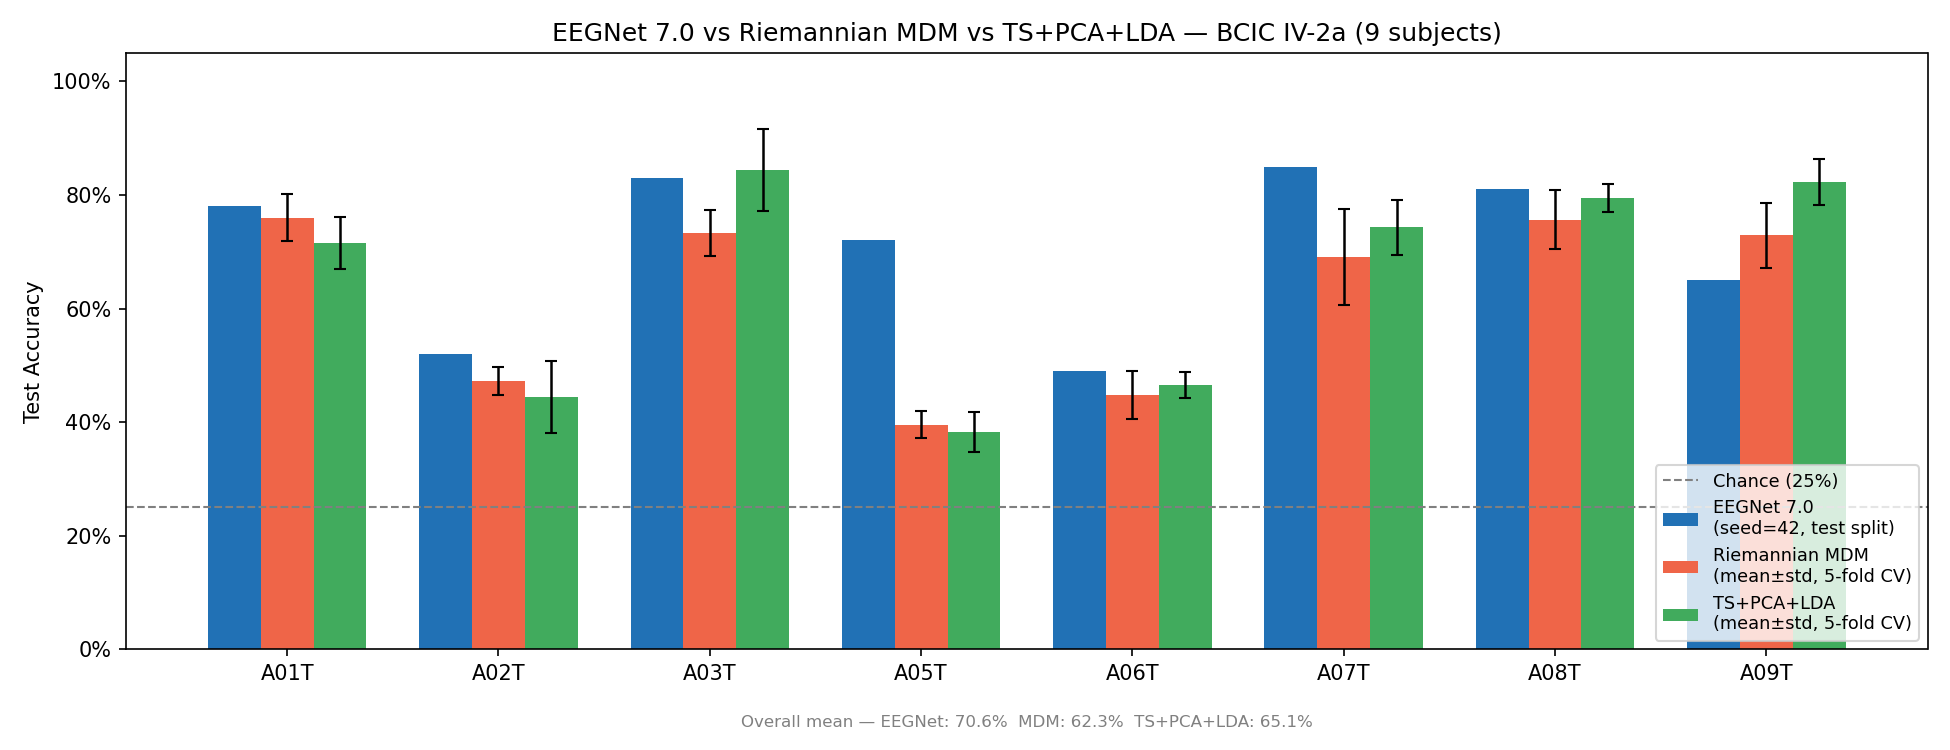
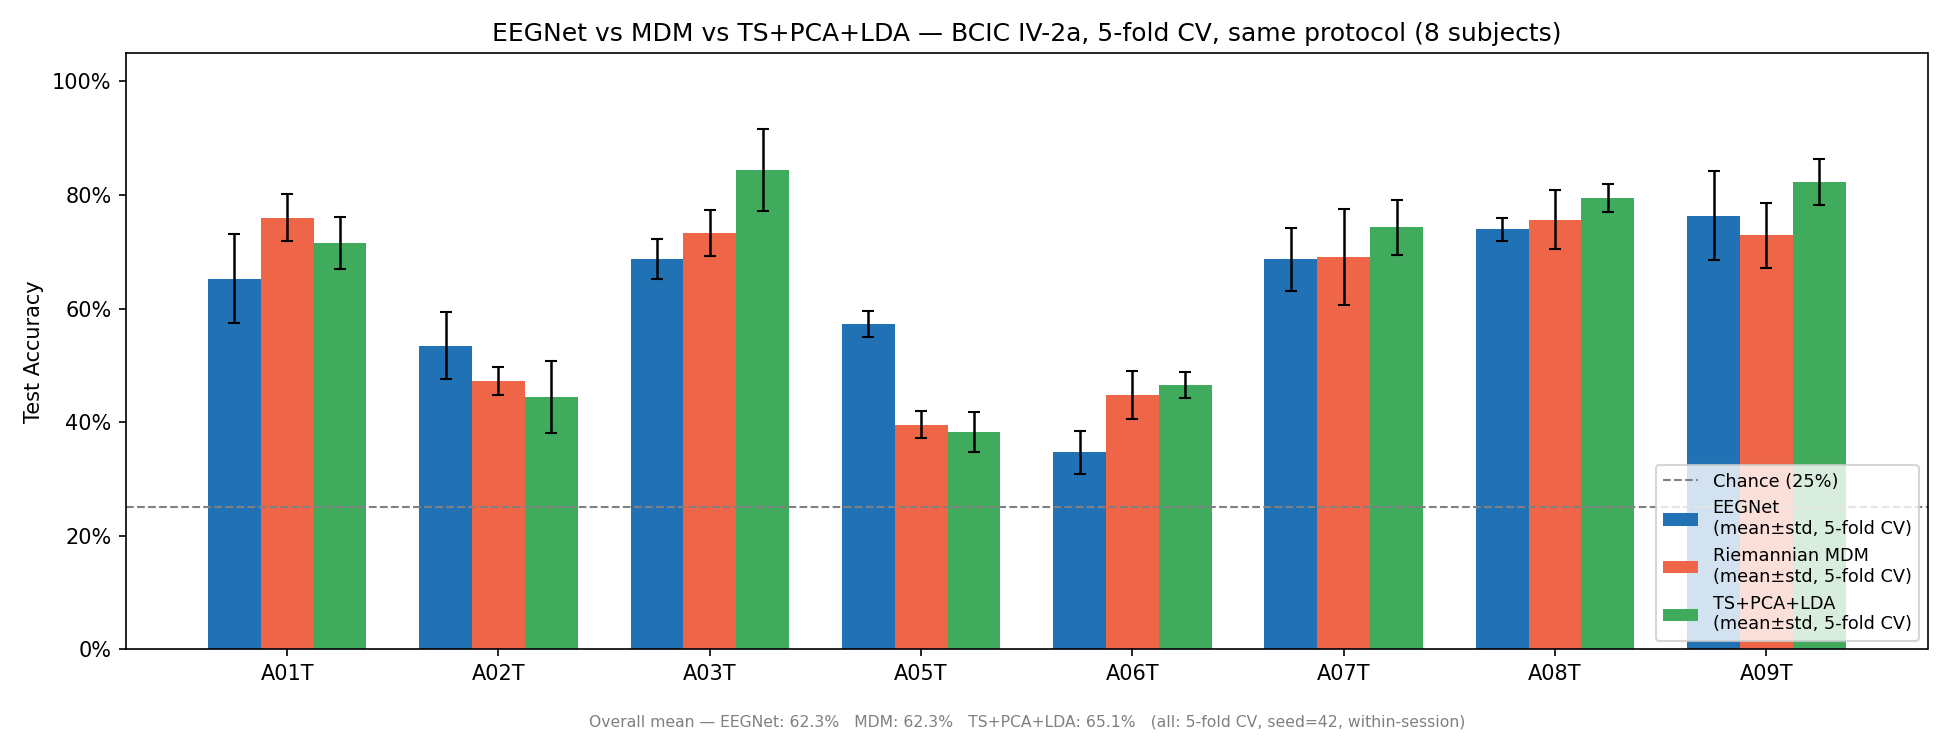
Add EEGNet 5-fold CV results; regenerate apples-to-apples comparison figure
All three methods now evaluated under identical protocol: 5-fold stratified
CV, within-session (AxxT), seed=42. EEGNet run on Palmetto GPU cluster.

Key finding: EEGNet's apparent 8-point lead over MDM disappears under the
same protocol (62.3% vs 62.3%). TS+PCA+LDA leads overall at 65.1%.
Previous EEGNet figure (70.6%) reflected a more favourable holdout split.

diff --git a/scripts/compare_methods.py b/scripts/compare_methods.py
@@ -1,10 +1,11 @@
 """
-Method comparison: EEGNet 7.0 vs Riemannian MDM vs TS+PCA+LDA — BCIC IV-2a
+Method comparison: EEGNet vs Riemannian MDM vs TS+PCA+LDA — BCIC IV-2a
 
-EEGNet values: mean ± std over 5 seeds, read from figures/per_subject_accuracy.png
-               (original 5-seed run; JSON not preserved).
-Riemannian values: loaded from results/riemannian_results.json
-                   (mean ± std over 5-fold CV).
+All three methods evaluated under the same protocol: 5-fold stratified CV,
+within-session (AxxT files), seed=42.
+
+EEGNet values:      results/eegnet_kfold_results.json  (Palmetto GPU run)
+Riemannian values:  results/riemannian_results.json
 
 Outputs:
   figures/method_comparison.png
@@ -17,18 +18,10 @@ import numpy as np
 import matplotlib.pyplot as plt
 
 
-# EEGNet 7.0 — mean ± std over 5 seeds, within-session holdout split.
-# Values read from figures/per_subject_accuracy.png (original run results).
-EEGNET = {
-    "A01T": (0.78, 0.05),
-    "A02T": (0.52, 0.04),
-    "A03T": (0.83, 0.02),
-    "A05T": (0.72, 0.03),
-    "A06T": (0.49, 0.05),
-    "A07T": (0.85, 0.04),
-    "A08T": (0.81, 0.05),
-    "A09T": (0.65, 0.07),
-}
+def load_eegnet(json_path: Path) -> dict:
+    with open(json_path, encoding="utf-8") as f:
+        data = json.load(f)
+    return {r["subject"]: (r["mean_acc"], r["std_acc"]) for r in data["results"]}
 
 
 def load_riemannian(json_path: Path) -> tuple[dict, dict]:
@@ -47,6 +40,7 @@ def plot_comparison(eegnet: dict, mdm: dict, ts: dict, out_path: Path):
     subjects = sorted(set(eegnet) & set(mdm) & set(ts))
 
     eeg_means = np.array([eegnet[s][0] for s in subjects])
+    eeg_stds  = np.array([eegnet[s][1] for s in subjects])
     mdm_means = np.array([mdm[s][0]    for s in subjects])
     mdm_stds  = np.array([mdm[s][1]    for s in subjects])
     ts_means  = np.array([ts[s][0]     for s in subjects])
@@ -57,12 +51,13 @@ def plot_comparison(eegnet: dict, mdm: dict, ts: dict, out_path: Path):
 
     fig, ax = plt.subplots(figsize=(13, 5))
 
-    ax.bar(x - w,   eeg_means, w, label="EEGNet 7.0\n(seed=42, test split)",
-           color="#2171b5")
-    ax.bar(x,       mdm_means, w, yerr=mdm_stds, capsize=3,
+    ax.bar(x - w, eeg_means, w, yerr=eeg_stds, capsize=3,
+           label="EEGNet\n(mean±std, 5-fold CV)", color="#2171b5",
+           error_kw=dict(elinewidth=1.2))
+    ax.bar(x,     mdm_means, w, yerr=mdm_stds, capsize=3,
            label="Riemannian MDM\n(mean±std, 5-fold CV)", color="#ef6548",
            error_kw=dict(elinewidth=1.2))
-    ax.bar(x + w,   ts_means,  w, yerr=ts_stds,  capsize=3,
+    ax.bar(x + w, ts_means,  w, yerr=ts_stds,  capsize=3,
            label="TS+PCA+LDA\n(mean±std, 5-fold CV)", color="#41ab5d",
            error_kw=dict(elinewidth=1.2))
 
@@ -72,7 +67,7 @@ def plot_comparison(eegnet: dict, mdm: dict, ts: dict, out_path: Path):
     ax.set_xticklabels(subjects)
     ax.set_ylabel("Test Accuracy")
     ax.set_ylim(0, 1.05)
-    ax.set_title("EEGNet 7.0 vs Riemannian MDM vs TS+PCA+LDA — BCIC IV-2a (9 subjects)")
+    ax.set_title("EEGNet vs MDM vs TS+PCA+LDA — BCIC IV-2a, 5-fold CV, same protocol (8 subjects)")
     ax.legend(loc="lower right", fontsize=8.5)
     ax.yaxis.set_major_formatter(plt.FuncFormatter(lambda v, _: f"{v*100:.0f}%"))
 
@@ -80,10 +75,11 @@ def plot_comparison(eegnet: dict, mdm: dict, ts: dict, out_path: Path):
     overall_mdm = mdm_means.mean()
     overall_ts  = ts_means.mean()
     ax.text(0.5, -0.13,
-            f"Overall mean — EEGNet: {overall_eeg*100:.1f}%  "
-            f"MDM: {overall_mdm*100:.1f}%  "
-            f"TS+PCA+LDA: {overall_ts*100:.1f}%",
-            ha="center", transform=ax.transAxes, fontsize=8, color="gray")
+            f"Overall mean — EEGNet: {overall_eeg*100:.1f}%   "
+            f"MDM: {overall_mdm*100:.1f}%   "
+            f"TS+PCA+LDA: {overall_ts*100:.1f}%   "
+            f"(all: 5-fold CV, seed=42, within-session)",
+            ha="center", transform=ax.transAxes, fontsize=7.5, color="gray")
 
     fig.tight_layout()
     out_path.parent.mkdir(parents=True, exist_ok=True)
@@ -100,12 +96,12 @@ def plot_comparison(eegnet: dict, mdm: dict, ts: dict, out_path: Path):
 
 
 def main():
-    riem_json = Path("results/riemannian_results.json")
-    out_path  = Path("figures/method_comparison.png")
+    eegnet_json = Path("results/eegnet_kfold_results.json")
+    riem_json   = Path("results/riemannian_results.json")
+    out_path    = Path("figures/method_comparison.png")
 
-    mdm, ts = load_riemannian(riem_json)
-    # Only plot subjects present in both EEGNet and Riemannian results
-    eegnet = {s: v for s, v in EEGNET.items() if s in mdm}
+    eegnet      = load_eegnet(eegnet_json)
+    mdm, ts     = load_riemannian(riem_json)
     plot_comparison(eegnet, mdm, ts, out_path)
 
 